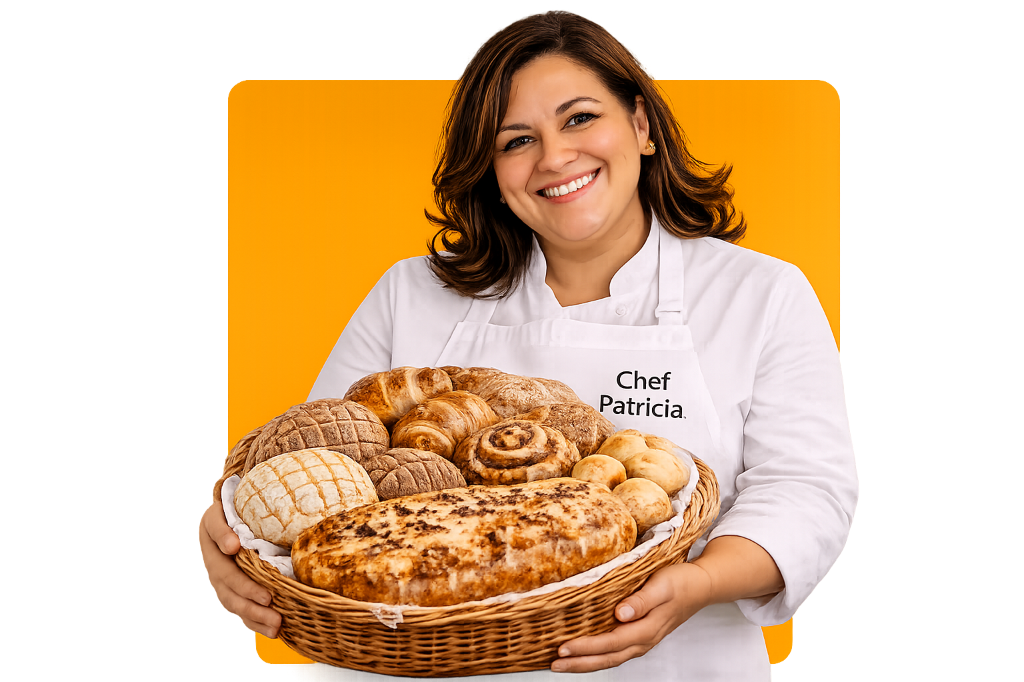
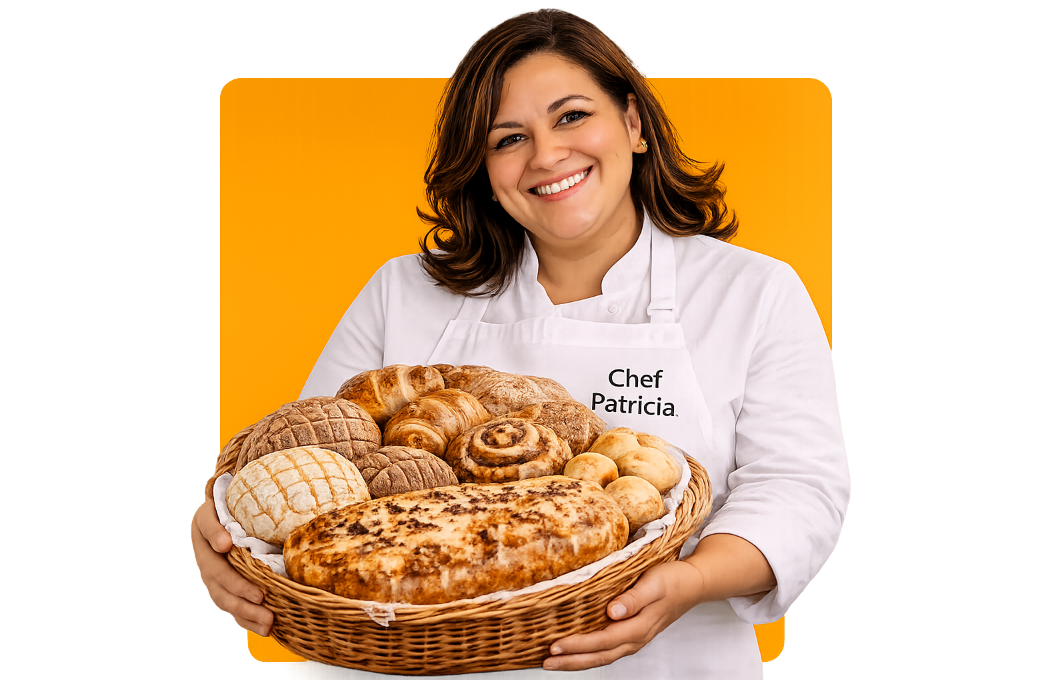
feat: centraliza e aumenta imagem da Chef Patrícia no mobile e pc

Changed region(s): [[0.1562, 0.0, 0.8438, 1.0], [0.7188, 0.525, 0.75, 0.5559]]

diff --git a/index.html b/index.html
@@ -80,13 +80,15 @@
         }
 
         .hero-image {
-            flex: 0 0 380px;
+            flex: 0 0 440px;
             text-align: center;
         }
 
         .hero-image img {
-            max-height: 420px;
+            max-height: 480px;
             border-radius: 12px;
+            width: 100%;
+            height: auto;
         }
 
         /* CTA BUTTON */
@@ -704,6 +706,12 @@
             .hero-image {
                 flex: none;
                 width: 100%;
+            }
+
+            .hero-image img {
+                max-width: 340px;
+                width: 100%;
+                height: auto;
             }
 
             .hero-text h1 {